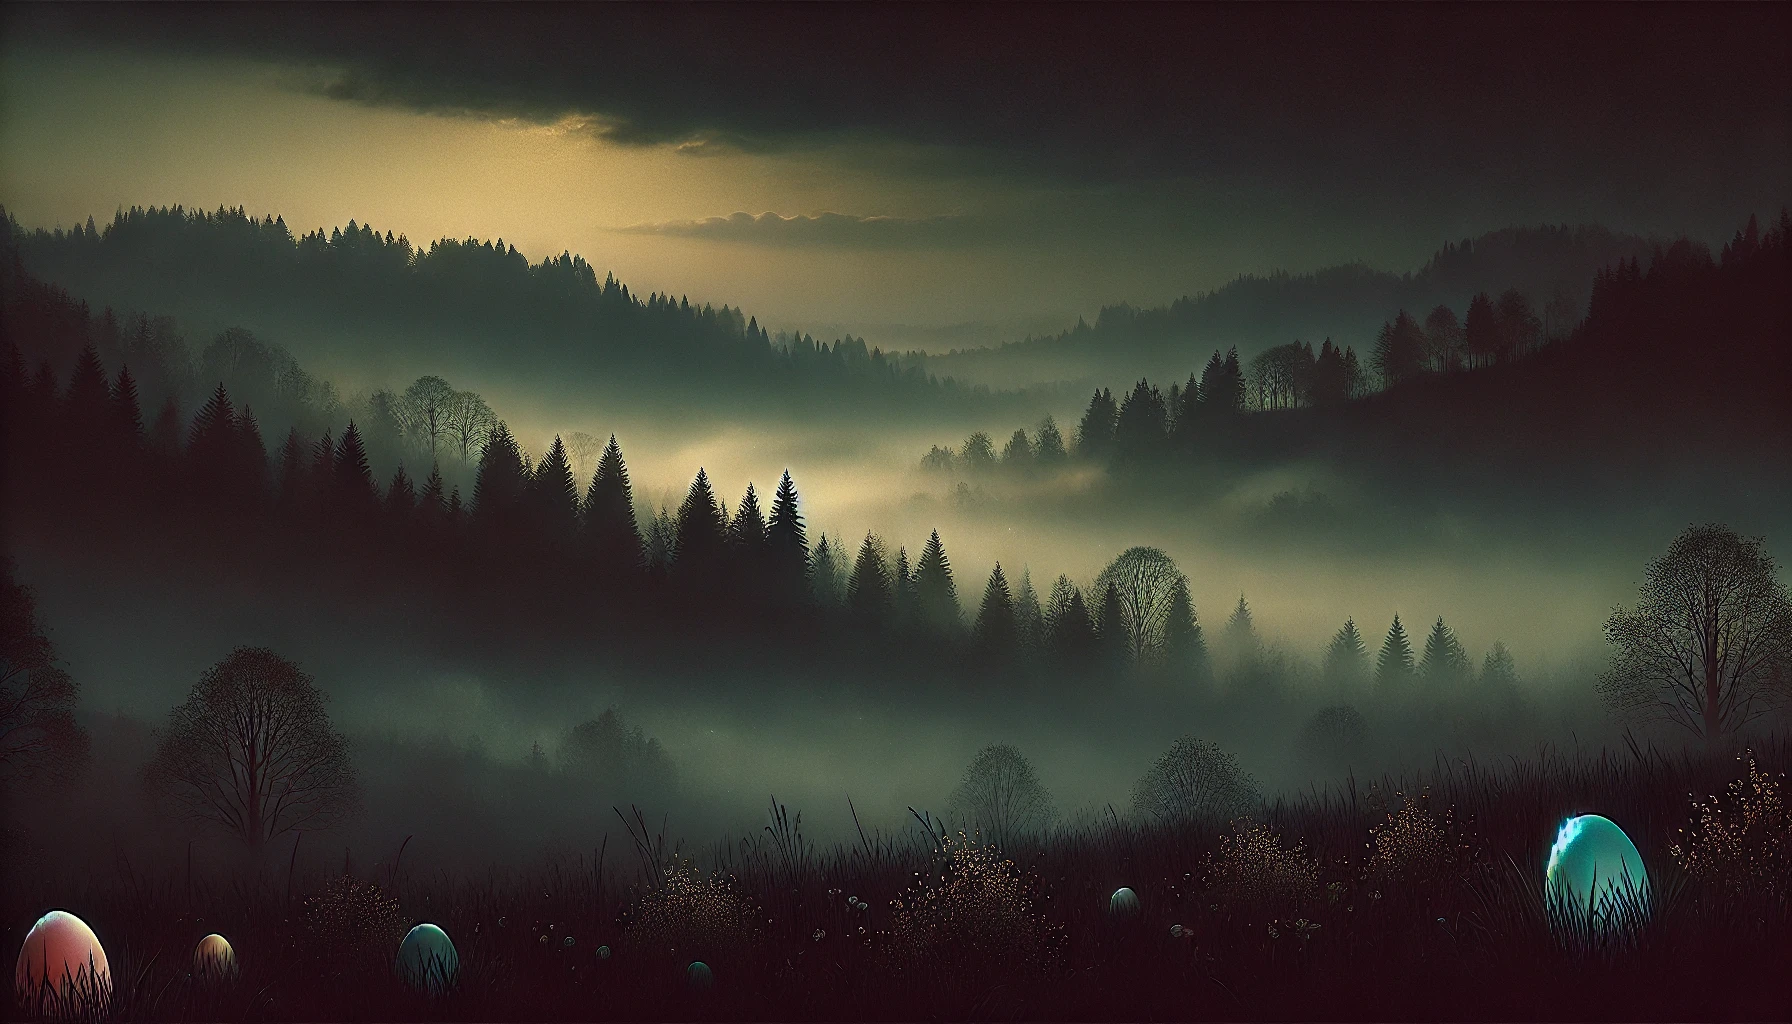
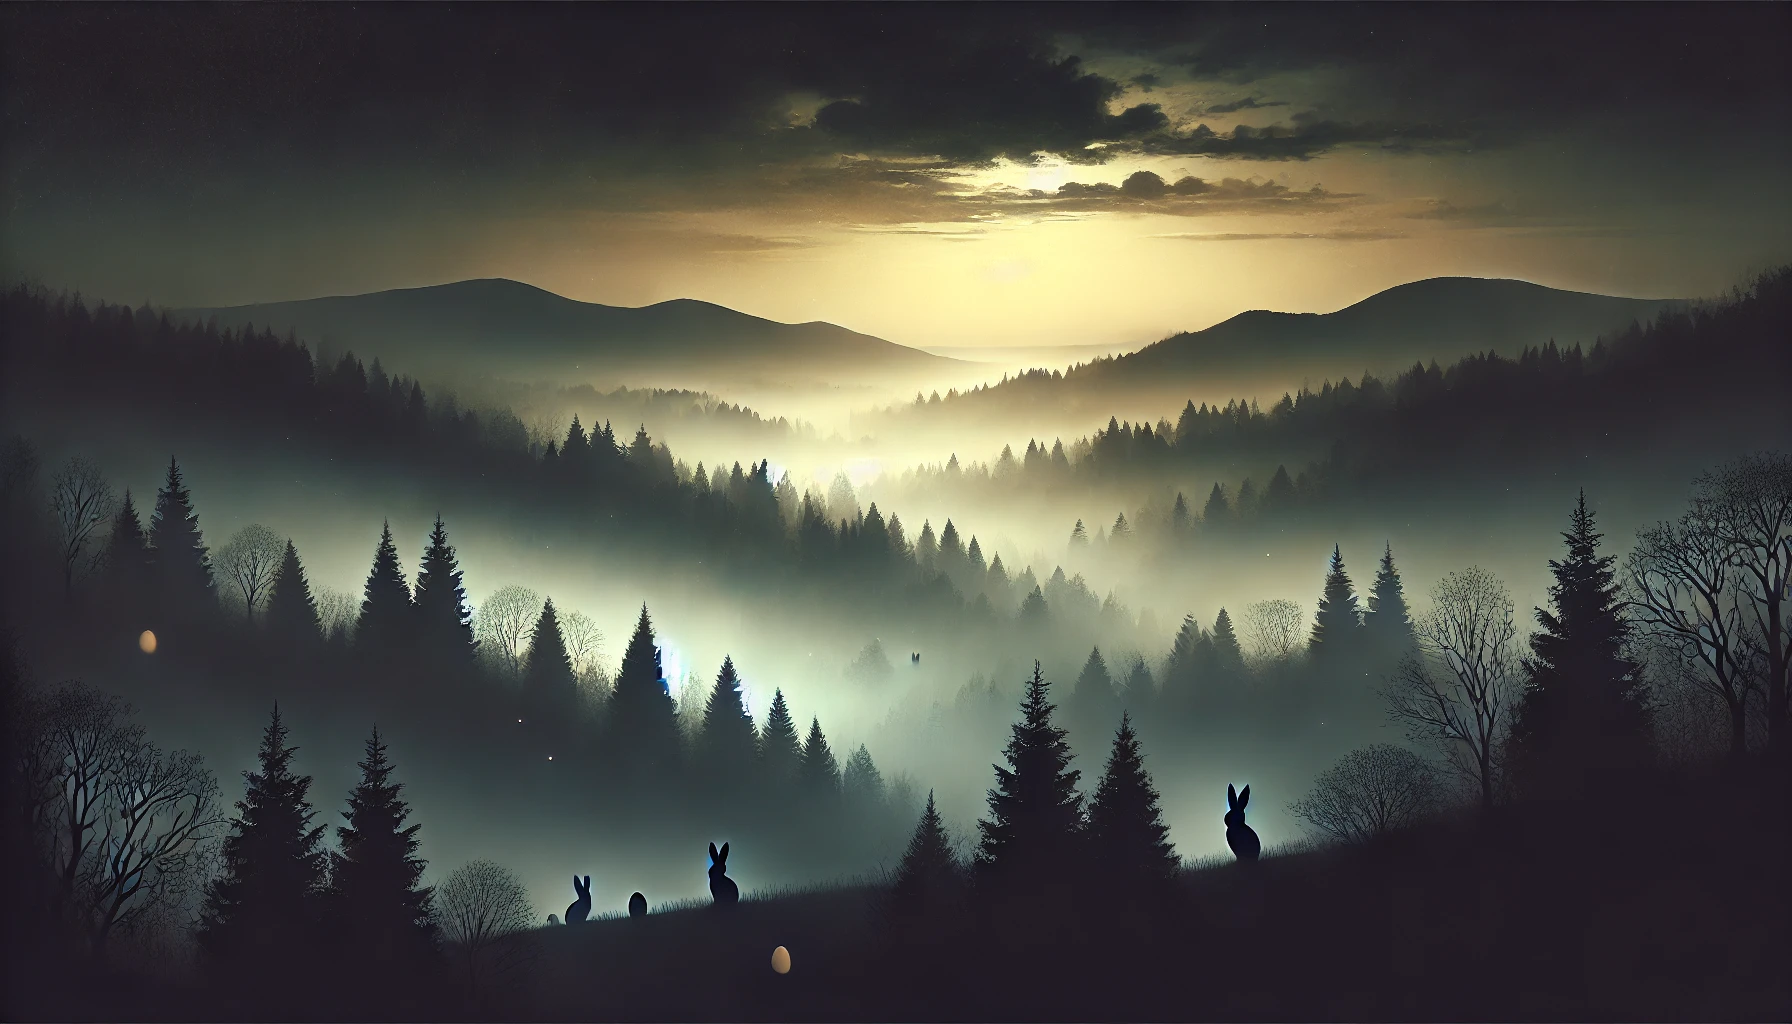
Passmer is now showing different backgrounds depending on the date

diff --git a/passmer/passmer/src/seasonal_class.jsx b/passmer/passmer/src/seasonal_class.jsx
@@ -10,7 +10,15 @@ const SeasonalClass = () => {
             return now >= new Date(start) && now <= new Date(end);
         };
 
-        if (isInRange(`${today.getFullYear()}-12-01`, `${today.getFullYear()}-12-26`)) {
+        const isExactDate = (month, day) => {
+            return today.getMonth() === month && today.getDate() === day;
+        };
+
+        if (isInRange(`${today.getFullYear()}-10-20`, `${today.getFullYear()}-10-31`)) {
+            htmlTag.classList.add('halloween');
+        } else if (isExactDate(1, 14)) { // Month 1 is February (0-based)
+            htmlTag.classList.add('valentines');
+        } else if (isInRange(`${today.getFullYear()}-12-01`, `${today.getFullYear()}-12-26`)) {
             htmlTag.classList.add('xmas');
         } else if (isInRange(`${today.getFullYear()}-12-27`, `${today.getFullYear() + 1}-01-02`)) {
             htmlTag.classList.add('new-year');
@@ -19,7 +27,7 @@ const SeasonalClass = () => {
         }
 
         return () => {
-            htmlTag.classList.remove('xmas', 'new-year', 'easter');
+            htmlTag.classList.remove('halloween', 'valentines', 'xmas', 'new-year', 'easter');
         };
     }, []);
 

diff --git a/passmer/passmer/src/style/main.css b/passmer/passmer/src/style/main.css
@@ -1052,12 +1052,27 @@ html, body {
 }
 
 html {
-  background-color: #1b1b1b;
-  background-image: url("../assets/background_login.webp");
+  background-color: rgba(27, 27, 27, 0.9);
+  background-image: url("../assets/background_default.webp");
   /*background-size: 100px;*/
   background-blend-mode: multiply;
   background-position: center center;
   background-size: cover;
+}
+html.xmas {
+  background-image: url("../assets/background_xmas.webp") !important;
+}
+html.new-year {
+  background-image: url("../assets/background_new_year.webp") !important;
+}
+html.easter {
+  background-image: url("../assets/background_easter.webp") !important;
+}
+html.halloween {
+  background-image: url("../assets/background_halloween.webp") !important;
+}
+html.valentines {
+  background-image: url("../assets/background_valentines.webp") !important;
 }
 
 * {

diff --git a/passmer/passmer/src/style/main.scss b/passmer/passmer/src/style/main.scss
@@ -15,7 +15,7 @@ html, body {
 }
 
 html {
-    background-color: $bg-color;
+    background-color: $bg-rgba-color;
     background-image: url('../assets/background_default.webp');
     /*background-size: 100px;*/
     background-blend-mode: multiply;
@@ -32,6 +32,14 @@ html {
 
     &.easter {
         background-image: url('../assets/background_easter.webp') !important;
+    }
+    
+    &.halloween {
+        background-image: url('../assets/background_halloween.webp') !important;
+    }
+    
+    &.valentines {
+        background-image: url('../assets/background_valentines.webp') !important;
     }
 }
 

diff --git a/passmer/passmer/src/style/_variables.scss b/passmer/passmer/src/style/_variables.scss
@@ -1,5 +1,6 @@
 // colors
 $bg-color: #1b1b1b;
+$bg-rgba-color: rgba(27, 27, 27, 0.9);
 $bg-sidebar-color: #202020;
 $primary-color: #161616;
 $primary-color-lighter: #292929;
